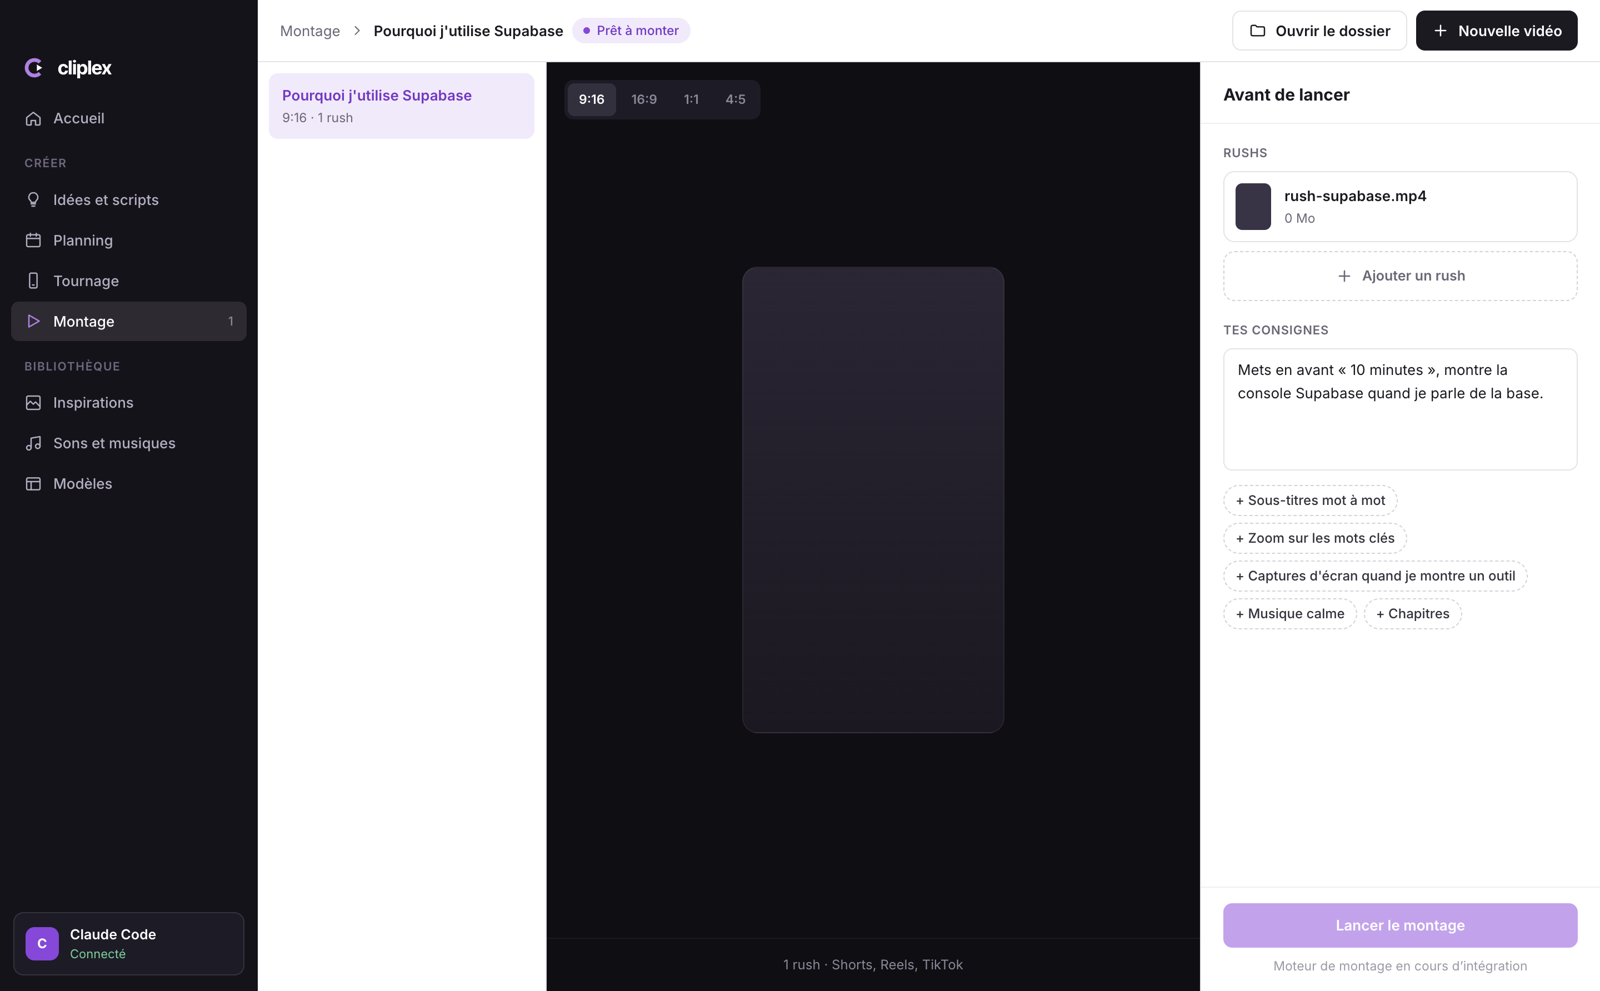
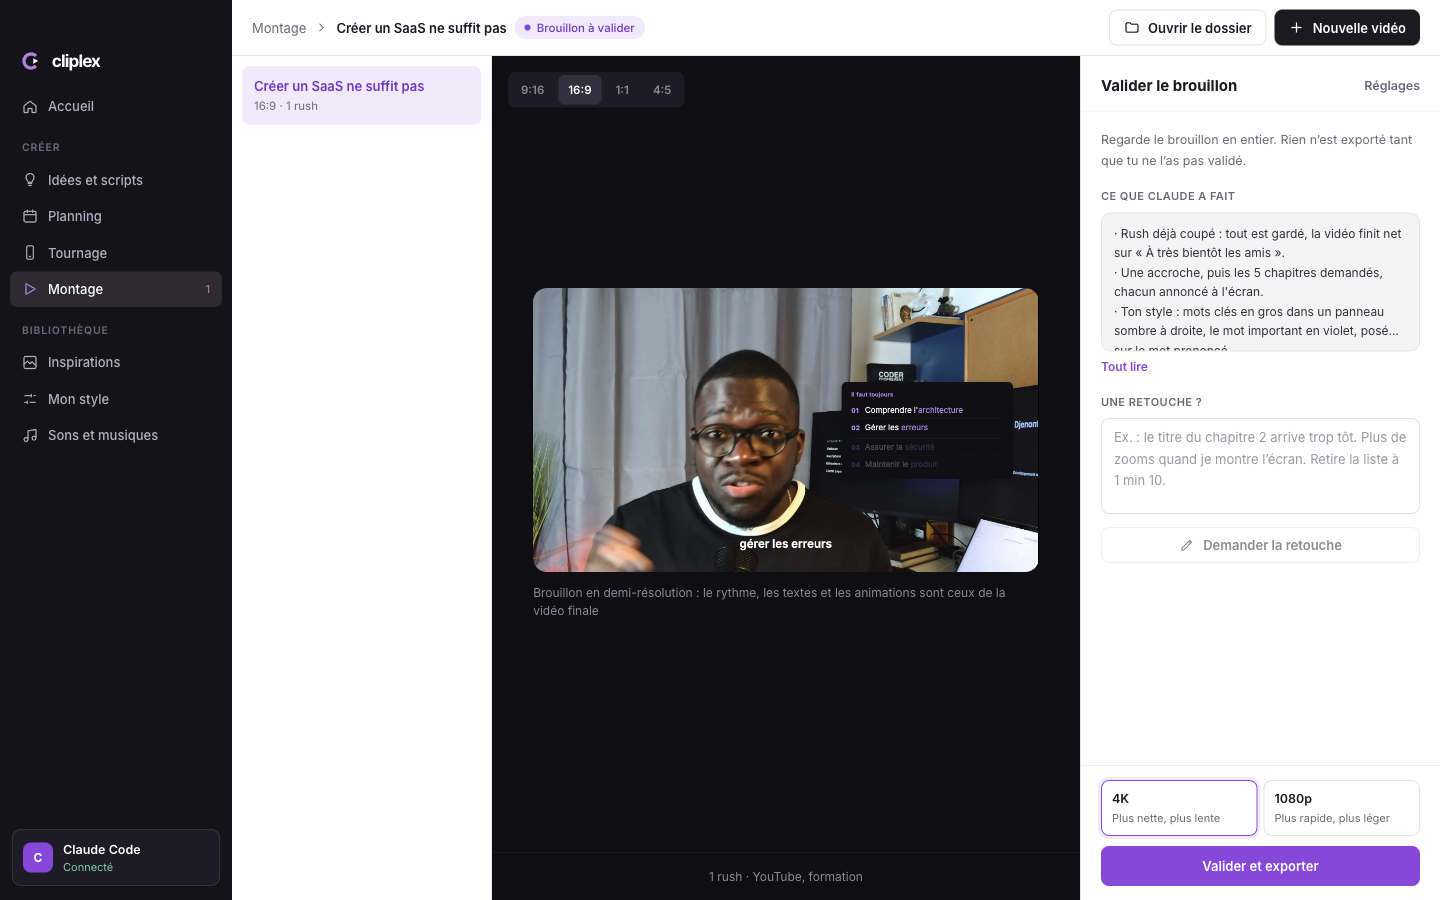
Préparation de la sortie publique : README, capture de l'app actuelle, résumé du monteur sans jargon

diff --git a/README.md b/README.md
@@ -8,6 +8,24 @@ Gratuit et open source. Tu branches simplement ton propre compte Claude.
 
 ![Écran de montage](docs/ecran-montage.png)
 
+## Démarrer (avec Claude Code)
+
+La façon la plus simple aujourd'hui : tout se fait dans Claude Code, sans installer l'app. Il te faut un Mac et Claude Code avec un abonnement Claude Pro ou Max ; le reste s'installe tout seul.
+
+```bash
+git clone https://github.com/mariusdjen/cliplex.git
+cd cliplex
+claude
+```
+
+Dis bonjour, ou tape `/setup`. Claude t'explique ce qu'il faut, installe les outils (avec ton accord), te demande tes vidéos d'inspiration (fichiers ou liens YouTube), en tire ton style, puis monte tes vidéos. Tu regardes un brouillon, tu demandes des retouches, et rien n'est exporté (en 4K ou en 1080p) avant que tu le valides.
+
+Tu peux tout demander pour ton montage : une ouverture animée, des transitions, des effets sonores plus marqués, ton logo, l'ambiance d'une vidéo que tu aimes. Ce que le moteur ne sait pas encore faire, Claude l'écrit pour ta vidéo. Plus tu décris précisément, plus le résultat te ressemble.
+
+Le détail de chaque étape : [docs/comment-ca-marche.md](docs/comment-ca-marche.md).
+
+Tout va dans le dossier `espace/` du dépôt (ou dans celui de l'app si tu l'utilises aussi : ce sont les mêmes fichiers). Le script `./cliplex` fait chaque étape : `./cliplex aide` liste ses commandes, `./cliplex etat` montre ce qui est prêt.
+
 ## Pourquoi « Cliplex »
 
 Clip Express : ta vidéo montée en quelques minutes. Et un lexique : Cliplex apprend le style de tes vidéos préférées pour monter les tiennes de la même façon.
@@ -38,25 +56,11 @@ Version 0.1, en développement actif. macOS d'abord, Windows et Linux ensuite.
 | Animations sur mesure écrites par Claude pour chaque vidéo | Fait |
 | Musiques libres de droits | À venir |
 
-## Utiliser avec Claude Code, sans l'app
+## L'app (en développement)
 
-Tu peux aussi tout faire depuis Claude Code, sans lancer l'app. Il te faut un Mac et Claude Code avec un abonnement Claude Pro ou Max ; le reste s'installe tout seul.
+Une app Mac reprend le même parcours avec une interface : accueil guidé, inspirations, style, montage, validation du brouillon. Elle n'a pas encore de version prête à installer : pour l'essayer, lance-la depuis le code.
 
-```bash
-git clone https://github.com/mariusdjen/cliplex.git
-cd cliplex
-claude
-```
-
-Dis bonjour, ou tape `/setup`. Claude t'explique ce qu'il faut, installe les outils (avec ton accord), te demande tes vidéos d'inspiration (fichiers ou liens YouTube), en tire ton style, puis monte tes vidéos. Tu regardes un brouillon, tu demandes des retouches, et rien n'est exporté (en 4K ou en 1080p) avant que tu le valides.
-
-Tu peux tout demander pour ton montage : une ouverture animée, des transitions, des effets sonores plus marqués, ton logo, l'ambiance d'une vidéo que tu aimes. Ce que le moteur ne sait pas encore faire, Claude l'écrit pour ta vidéo. Plus tu décris précisément, plus le résultat te ressemble.
-
-Le détail de chaque étape : [docs/comment-ca-marche.md](docs/comment-ca-marche.md).
-
-Tout va dans le dossier `espace/` du dépôt (ou dans celui de l'app si tu l'utilises aussi : ce sont les mêmes fichiers). Le script `./cliplex` fait chaque étape : `./cliplex aide` liste ses commandes, `./cliplex etat` montre ce qui est prêt.
-
-## Installer pour développer
+### Installer pour développer
 
 Prérequis : macOS, Node.js 20 ou plus.
 
@@ -72,11 +76,17 @@ Les outils de montage (ffmpeg, Node, Python et whisper, Remotion, Claude Code si
 ## Structure
 
 ```
-src/main/        processus principal Electron : outils, projets, Claude
-src/preload/     pont sécurisé entre l'interface et le système
-src/renderer/    interface React (Tailwind)
-src/shared/      types communs
+cliplex              le parcours complet en ligne de commande (utilisé par Claude Code)
+.claude/skills/      /setup, /style et /monter : ce que Claude fait à chaque étape
+moteur/claude/       les règles du monteur, copiées dans chaque montage
+moteur/inspirations/ analyse des inspirations et écriture du style
+moteur/outils/       préparation du rush, transcription locale, compilation du plan, rendu
+moteur/studio/       les éléments animés (Remotion) : chapitres, encarts, captures, sous-titres…
+moteur/sons/         le kit d'effets sonores, original et libre
+src/                 l'app Electron (React, Tailwind)
 ```
+
+Tout ce que Claude doit faire est écrit en clair dans `moteur/` et `.claude/` : tu peux le lire et l'adapter.
 
 ## Contribuer
 

diff --git a/moteur/claude/instructions.md b/moteur/claude/instructions.md
@@ -30,7 +30,7 @@ Tu travailles dans le dossier de montage du projet (dossier courant). Tout y est
 5. **Écrire `plan.json`** (format ci-dessous).
 6. **Rendre un brouillon** : `./rendre-brouillon.sh`, au premier plan (jamais en arrière-plan) : il prend quelques minutes, attends qu'il se termine.
 7. **Vérifier** `timeline.txt` et **toutes** les planches `controle/planche_*.jpg` comme un monteur exigeant (checklist). Corriger et re-rendre tant qu'un point n'est pas bon.
-8. **Terminer** en écrivant `resume.md` : 3 à 6 lignes sur tes choix (prises gardées, règles du style appliquées, illustrations et leurs sources). Ne lance pas le rendu final : Cliplex s'en charge.
+8. **Terminer** en écrivant `resume.md` : 3 à 6 lignes courtes sur tes choix (prises gardées, règles du style appliquées, illustrations et leurs sources), une par ligne, commençant par « - ». La personne les lit : des mots simples, jamais de nom de champ, de valeur technique ni de code couleur. Ne lance pas le rendu final : Cliplex s'en charge.
 
 Ne modifie jamais les rushs d'origine.
 
